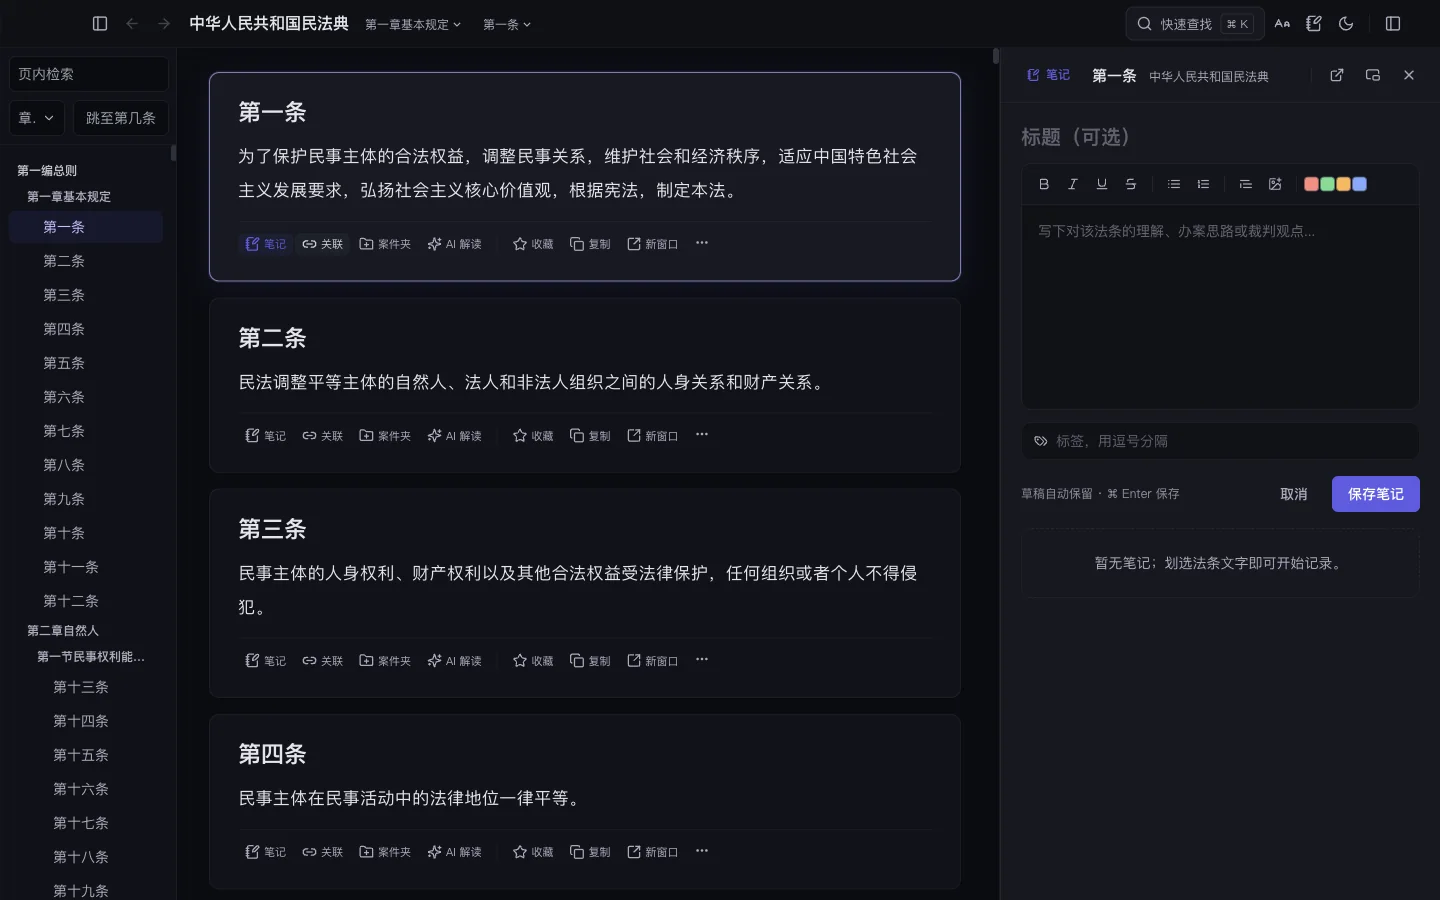
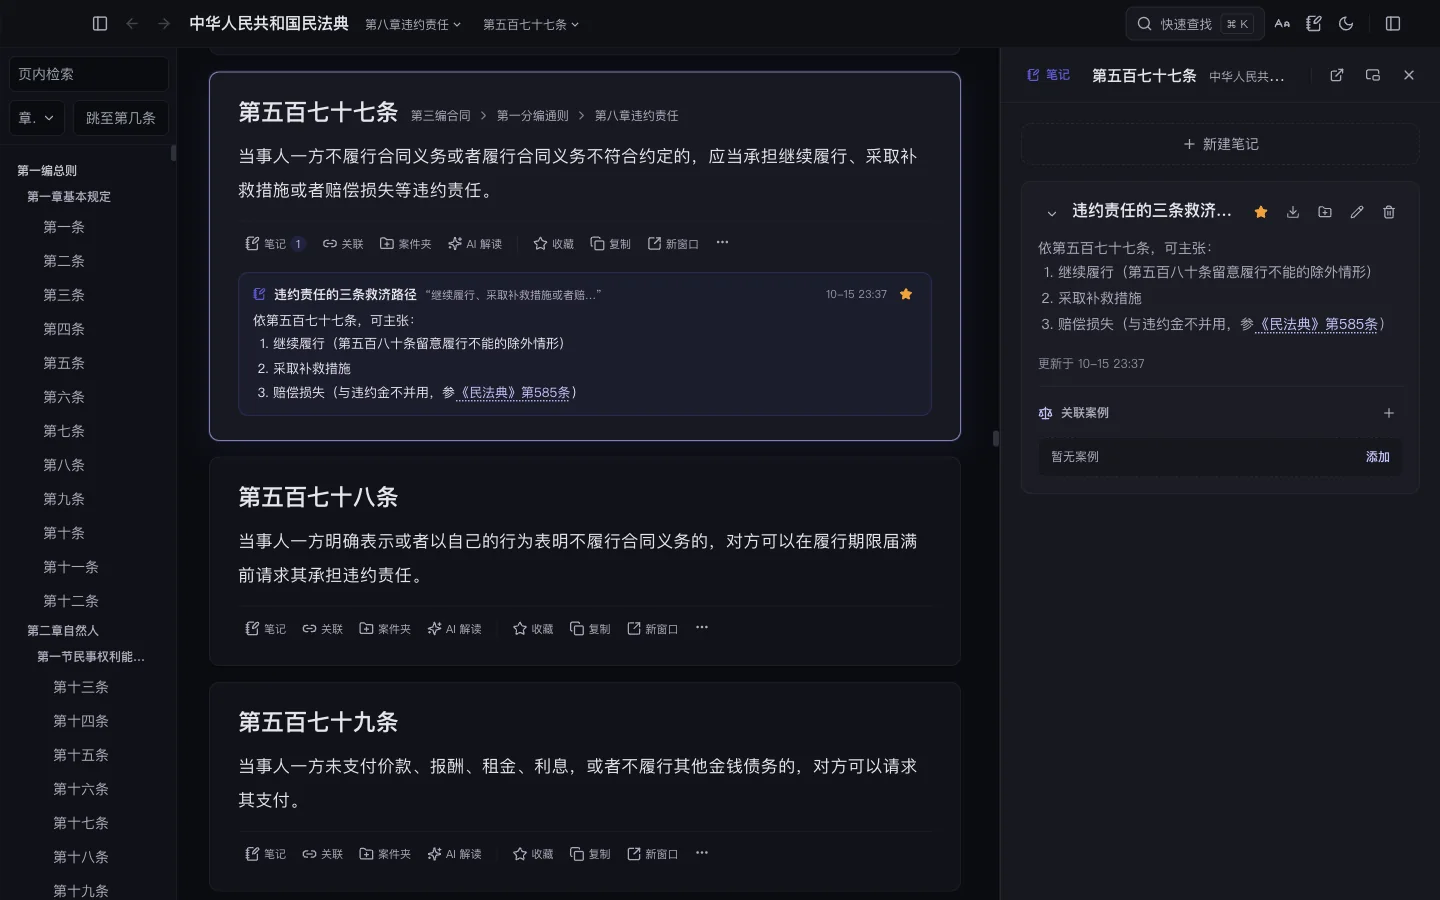
Update the landing page

diff --git a/index.html b/index.html
@@ -241,6 +241,12 @@
 
     /* ---------- 产品预览（纯 CSS 绘制，随主题变色） ---------- */
     .preview { margin-top: 44px; }
+    .shot { margin: 0; }
+    .shot-img { display: block; width: 100%; height: auto; border-radius: 14px;
+      border: 1px solid rgb(var(--outline) / 0.5); box-shadow: var(--shadow-lift); }
+    /* 跟随站点主题只展示同主题的那张截图 */
+    :root[data-theme="dark"] .shot-when-light { display: none; }
+    :root[data-theme="light"] .shot-when-dark { display: none; }
     .window {
       border: 1px solid rgb(var(--outline) / 0.55); border-radius: 14px; overflow: hidden;
       background: rgb(var(--background)); box-shadow: var(--shadow-lift);
@@ -569,78 +575,27 @@
         · <a href="https://github.com/lttxzmj/lawpulse-feedback/releases/latest" rel="noopener">GitHub 镜像下载</a>
       </p>
       <p class="meta">公测期间全部功能免费开放，无需账号，无需填付款信息。</p>
+      <p class="meta">Windows 版首次运行若遇 SmartScreen 提示，点「更多信息 → 仍要运行」即可——预览版暂未购买代码签名证书，<a href="#faq">详见常见问题</a>。</p>
 
+    </section>
+
+    <!-- ============ 产品预览 ============ -->
+    <section class="preview wrap reveal" id="preview">
+      <figure class="shot">
+        <img class="shot-img shot-when-light" src="assets/shot-workbench-light.webp"
+             alt="法脉真实界面：左侧民法典目录，中间第五百七十七条正文与行内笔记，右侧停靠的笔记面板"
+             width="1440" height="900" loading="lazy" decoding="async" />
+        <img class="shot-img shot-when-dark" src="assets/shot-workbench-dark.webp"
+             alt="法脉真实界面（深色主题）：左侧民法典目录，中间第五百七十七条正文与行内笔记，右侧停靠的笔记面板"
+             width="1440" height="900" loading="lazy" decoding="async" />
+        <figcaption class="preview-cap">真实界面截图（v0.8.0）：读民法典第五百七十七条，右侧边看边记——笔记内容为演示示例</figcaption>
+      </figure>
       <div class="stats reveal">
         <div class="stat"><div class="num" data-count="520">520</div><div class="cap">部法律、司法解释与行政法规</div></div>
         <div class="stat"><div class="num" data-count="30069">30069</div><div class="cap">条法条离线可查</div></div>
         <div class="stat"><div class="num" data-count="278">278</div><div class="cap">件指导性案例内置</div></div>
         <div class="stat"><div class="num" data-count="100" data-suffix="%">100%</div><div class="cap">数据留在本机</div></div>
       </div>
-    </section>
-
-    <!-- ============ 产品预览 ============ -->
-    <section class="preview wrap reveal" id="preview">
-      <div class="window">
-        <div class="window-bar">
-          <div class="lights"><i></i><i></i><i></i></div>
-          <span class="window-title">中华人民共和国民法典 · 第一千零四十三条</span>
-          <span class="kbd">快速查找 ⌘K</span>
-        </div>
-        <div class="window-body">
-          <div class="pane-nav">
-            <div class="row">
-              <svg viewBox="0 0 24 24" fill="none" stroke="currentColor" stroke-width="2" stroke-linecap="round" stroke-linejoin="round"><path d="M3 10.5 12 3l9 7.5V20a1 1 0 0 1-1 1h-5v-6H9v6H4a1 1 0 0 1-1-1Z"/></svg>
-              首页
-            </div>
-            <div class="row on">
-              <svg viewBox="0 0 24 24" fill="none" stroke="currentColor" stroke-width="2" stroke-linecap="round" stroke-linejoin="round"><path d="M16 6H6a2 2 0 0 0-2 2v11a2 2 0 0 1 2-2h10Z"/><path d="M20 3v18M16 3v3"/></svg>
-              法律库
-            </div>
-            <div class="row">
-              <svg viewBox="0 0 24 24" fill="none" stroke="currentColor" stroke-width="2" stroke-linecap="round" stroke-linejoin="round"><path d="M4 4h11l5 5v11a1 1 0 0 1-1 1H5a1 1 0 0 1-1-1Z"/><path d="M8 9h4m-4 4h8m-8 4h6"/></svg>
-              笔记
-            </div>
-            <div class="row">
-              <svg viewBox="0 0 24 24" fill="none" stroke="currentColor" stroke-width="2" stroke-linecap="round" stroke-linejoin="round"><path d="M3 7a2 2 0 0 1 2-2h4l2 2h8a2 2 0 0 1 2 2v8a2 2 0 0 1-2 2H5a2 2 0 0 1-2-2Z"/></svg>
-              案件夹
-            </div>
-            <div class="row">
-              <svg viewBox="0 0 24 24" fill="none" stroke="currentColor" stroke-width="2" stroke-linecap="round" stroke-linejoin="round"><circle cx="11" cy="11" r="6"/><path d="m20 20-4.5-4.5"/></svg>
-              合同审查
-            </div>
-            <div class="row">
-              <svg viewBox="0 0 24 24" fill="none" stroke="currentColor" stroke-width="2" stroke-linecap="round" stroke-linejoin="round"><path d="M21 12a8 8 0 1 1-3.2-6.4"/><path d="M10 9a2 2 0 1 1 3 1.7c-.7.4-1 .8-1 1.6M12 16h.01"/></svg>
-              法库问答
-            </div>
-          </div>
-
-          <div class="pane-main">
-            <div class="crumb">第五编 婚姻家庭 › 第一章 一般规定</div>
-            <div class="art-no">第一千零四十三条</div>
-            <div class="art-text">
-              <p>家庭应当树立优良家风，弘扬家庭美德，重视家庭文明建设。</p>
-              <p>夫妻应当<mark>互相忠实，互相尊重，互相关爱</mark>；家庭成员应当敬老爱幼，互相帮助，维护平等、和睦、文明的婚姻家庭关系。</p>
-            </div>
-          </div>
-
-          <div class="pane-note">
-            <div class="cap">本条笔记</div>
-            <div class="note-card">
-              <h4>忠实义务能否单独起诉？</h4>
-              <p>倡导性规范，不能单独作为诉请依据；实务中多与第 1091 条损害赔偿一并主张。</p>
-              <div class="chips">
-                <span class="chip">婚姻家庭</span>
-                <span class="chip">关联 第1091条</span>
-              </div>
-            </div>
-            <div class="note-card">
-              <h4>关联案例</h4>
-              <p>可挂接自己收集的裁判文书，记下案号、裁判要旨与引用出处。</p>
-            </div>
-          </div>
-        </div>
-      </div>
-      <p class="preview-cap">界面示意（非截图）：左侧法库导航、中间法条正文、右侧本条笔记与关联案例；正文为民法典原文，笔记内容为举例</p>
     </section>
 
     <!-- ============ 主打功能 ============ -->
@@ -819,6 +774,8 @@
           对照阅读、Word / PDF / JSON / Markdown 导出、备份恢复与应用锁，以及每季度的法规数据更新——
           这些永久免费，不设时限。付费墙只挡 AI 与实时数据更新。
         </p>
+      
+        <p style="margin-top:10px">正式版上线前购买享早鸟价；想第一时间知道，可<a href="feed.xml" rel="alternate">订阅 RSS</a>或关注<a href="https://github.com/lttxzmj/lawpulse-feedback" rel="noopener">反馈仓</a>。</p>
       </div>
     </section>
 
